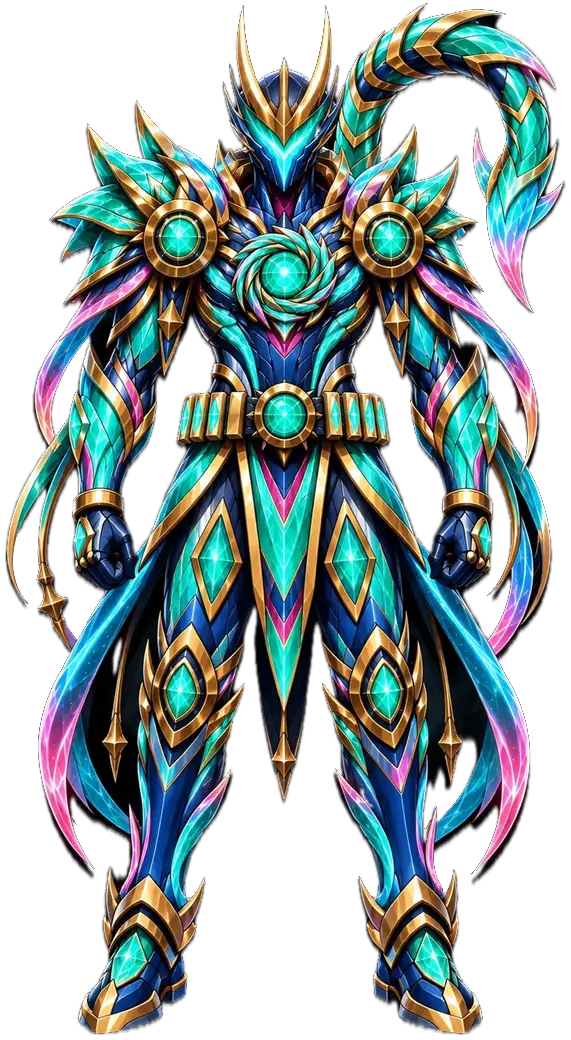
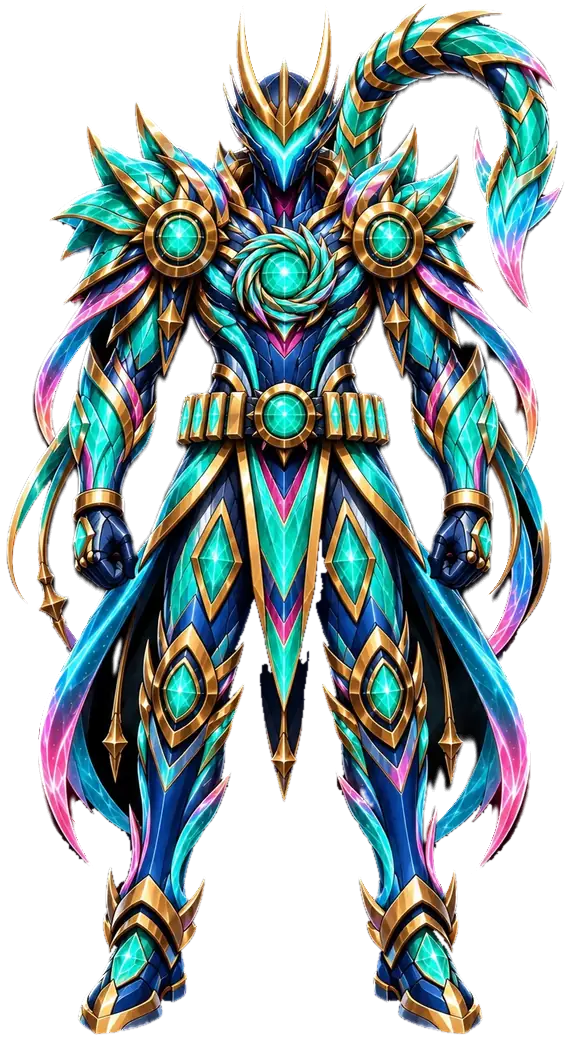
Rexonance: clean cut-outs through the suit-up and the MAX/ULTRA figures (owner)
- The call's nanite motes are the art itself in nanite light (the light
  split's third layer), so a plate's edge is the artwork's edge from the
  first mote; a landing tile locks whole, on the pixel grid, with its
  light fading into it, and locked tiles are one clipped draw per plate:
  no gaps or seams between tiles, so a forming plate no longer looked
  chopped into squares.
- The MAX and ULTRA figures: the black ground is flood-filled away with
  its dark rim and the edge is unpremultiplied, so no grey halo or black
  slivers come along where their shapes fall short of HIGH's; only
  coloured glow beyond the silhouette adds alpha.

diff --git a/src/lib/rexonance-unlit.js b/src/lib/rexonance-unlit.js
@@ -10,8 +10,8 @@
  * RESONANCE preparation uses createSplitLightsJob to run the same pass in
  * short row slices. Null
  * where the pixels cannot be read (the suit then lights as it always did). */
-export function splitLights(source, sx, sy, w, h, document = globalThis.document) {
-  const job = createSplitLightsJob(source, sx, sy, w, h, document);
+export function splitLights(source, sx, sy, w, h, document = globalThis.document, options) {
+  const job = createSplitLightsJob(source, sx, sy, w, h, document, options);
   if (!job) return null;
   job.step(Infinity);
   return job.commit();
@@ -22,23 +22,40 @@ export function splitLights(source, sx, sy, w, h, document = globalThis.document
  * escape this job. A short deadline still advances one row, so a busy host
  * cannot starve preparation forever. Native readback/put operations and one
  * row are indivisible: the deadline bounds cooperative work, not those
- * native operations' wall time. */
-export function createSplitLightsJob(source, sx, sy, w, h, document = globalThis.document) {
+ * native operations' wall time.
+ *
+ * `options.motes` (the call's nanite engine; owner, 2026-10-15): a third
+ * canvas, `motes`, from the same pass — the art in nanite light (each pixel
+ * pushed to pink or ice, the darker the more) with the art's own alpha, so a
+ * tile streaming in as a mote keeps the artwork's edge. */
+export function createSplitLightsJob(
+  source,
+  sx,
+  sy,
+  w,
+  h,
+  document = globalThis.document,
+  options = {},
+) {
   let unlit;
   let lights;
+  let motes;
   let scratch;
   try {
     const make = () => Object.assign(document.createElement("canvas"), { width: w, height: h });
     scratch = make();
     unlit = make();
     lights = make();
+    if (options.motes) motes = make();
     const uc = scratch.getContext("2d", { willReadFrequently: true });
     if (!uc) throw new Error("unavailable light separation context");
     uc.drawImage(source, sx, sy, w, h, 0, 0, w, h);
     let art = uc.getImageData(0, 0, w, h);
     let glow = uc.createImageData(w, h);
+    let heat = motes ? uc.createImageData(w, h) : null;
     let a = art.data;
     let g = glow.data;
+    let m = heat ? heat.data : null;
     // Native ImageData has width. Lightweight callers/tests may only expose
     // its bytes, so use the requested region rather than creating a NaN
     // cursor that could strand the synchronous compatibility pass forever.
@@ -49,8 +66,9 @@ export function createSplitLightsJob(source, sx, sy, w, h, document = globalThis
     let cancelled = false;
     let result = null;
     const release = () => {
-      art = glow = a = g = null;
+      art = glow = heat = a = g = m = null;
       unlit.width = unlit.height = lights.width = lights.height = 0;
+      if (motes) motes.width = motes.height = 0;
       scratch.width = scratch.height = 0;
     };
     return {
@@ -59,7 +77,7 @@ export function createSplitLightsJob(source, sx, sy, w, h, document = globalThis
         try {
           do {
             const end = Math.min(at + rowBytes, a.length);
-            separate(a, g, at, end);
+            separate(a, g, m, at, end);
             at = end;
             if (at >= a.length) return true;
           } while (
@@ -86,9 +104,16 @@ export function createSplitLightsJob(source, sx, sy, w, h, document = globalThis
           uc.clearRect(0, 0, w, h);
           uc.putImageData(glow, 0, 0);
           lc.drawImage(scratch, 0, 0);
+          if (motes) {
+            const mc = motes.getContext("2d");
+            if (!mc) throw new Error("unavailable mote layer context");
+            uc.clearRect(0, 0, w, h);
+            uc.putImageData(heat, 0, 0);
+            mc.drawImage(scratch, 0, 0);
+          }
           scratch.width = scratch.height = 0;
-          result = { unlit, lights };
-          art = glow = a = g = null;
+          result = motes ? { unlit, lights, motes } : { unlit, lights };
+          art = glow = heat = a = g = m = null;
           return result;
         } catch {
           cancelled = true;
@@ -106,14 +131,22 @@ export function createSplitLightsJob(source, sx, sy, w, h, document = globalThis
     // Releasing owned canvases never closes a borrowed image or bitmap.
     if (unlit) unlit.width = unlit.height = 0;
     if (lights) lights.width = lights.height = 0;
+    if (motes) motes.width = motes.height = 0;
     if (scratch) scratch.width = scratch.height = 0;
     return null;
   }
 }
 
+// The motes' nanite light: ice for most of the art (the black plates and
+// the gold trims too — the gold forms later, from its own nanites), pink
+// for its magenta and pink pixels.
+const ICE = [140, 239, 255];
+const PINK = [255, 143, 216];
+
 // Keep the original per-pixel arithmetic and rounding order: splitting rows
-// only changes when pixels are visited, never their resulting bytes.
-function separate(a, g, from, to) {
+// only changes when pixels are visited, never their resulting bytes. `m`
+// (the mote bytes) is filled from the untouched art, or null.
+function separate(a, g, m, from, to) {
   for (let i = from; i < to; i += 4) {
     if (!a[i + 3]) continue;
     const r = a[i];
@@ -122,13 +155,27 @@ function separate(a, g, from, to) {
     const max = Math.max(r, gr, b);
     const min = Math.min(r, gr, b);
     const chroma = max - min;
+    let hue = -1;
+    if (chroma) {
+      if (max === r) hue = ((gr - b) / chroma + 6) % 6;
+      else if (max === gr) hue = (b - r) / chroma + 2;
+      else hue = (r - gr) / chroma + 4;
+      hue *= 60;
+    }
+    if (m) {
+      // The pixel in nanite light, the darker the more (a black plate's
+      // mote is a cold spark, a crystal's keeps its own light), a touch
+      // brighter than the art; the art's alpha.
+      const luma = 0.2126 * r + 0.7152 * gr + 0.0722 * b;
+      const tint = chroma >= 0.25 * max && (hue >= 285 || hue < 12) ? PINK : ICE;
+      const lift = 0.56 + 0.26 * (1 - luma / 255);
+      m[i] = Math.min(255, Math.round((r + (tint[0] - r) * lift) * 1.12));
+      m[i + 1] = Math.min(255, Math.round((gr + (tint[1] - gr) * lift) * 1.12));
+      m[i + 2] = Math.min(255, Math.round((b + (tint[2] - b) * lift) * 1.12));
+      m[i + 3] = a[i + 3];
+    }
     if (max < 70 || chroma < 0.3 * max) continue;
     // Hue: gold and bronze (red-orange to yellow) keep their colour.
-    let hue;
-    if (max === r) hue = ((gr - b) / chroma + 6) % 6;
-    else if (max === gr) hue = (b - r) / chroma + 2;
-    else hue = (r - gr) / chroma + 4;
-    hue *= 60;
     if (hue >= 12 && hue < 70) continue;
     // A lit pixel: cyan, blue, violet or pink. Its share of the light.
     const k = Math.min(1, (chroma / max - 0.3) / 0.25) * Math.min(1, (max - 70) / 60);

diff --git a/src/components/rexonance-saga/rexonance-suit-nanites.tsx b/src/components/rexonance-saga/rexonance-suit-nanites.tsx
@@ -10,6 +10,7 @@ import {
   T,
   cells,
   forming,
+  moteSheet,
   planEnd,
   planSurges,
   plateLights,
@@ -120,13 +121,14 @@ export function SuitNanites({ onReady }: { onReady: () => void }) {
         const settled = make();
         const flight = make();
         const source = work.canvas;
-        if (!atlasWork || !source || !settled || !flight) {
+        const all = plates();
+        const sheet = moteSheet(atlas);
+        if (!atlasWork || !source || !sheet || !settled || !flight) {
           box.replaceChildren();
           return;
         }
         work.dirty = true;
         const s = width / FIG.width;
-        const all = plates();
         const surges = planSurges();
         const end = planEnd();
         const gold = cells();
@@ -214,40 +216,55 @@ export function SuitNanites({ onReady }: { onReady: () => void }) {
             if (t < plate.spawn || (done[p] && t >= plate.last)) continue;
             const { piece } = plate;
             if (t < plate.fit) {
+              // The tiles that have locked: one clip of their cells and one
+              // draw of the plate. Drawn one by one at the canvas's scale,
+              // their resampled edges left a dark lattice between them, so a
+              // forming plate looked chopped into squares (owner, 2026-10-15).
+              let locked = false;
+              flight.save();
+              flight.beginPath();
+              for (const tile of plate.tiles) {
+                if (t - tile.land < 0) continue;
+                const x0 = Math.round(tile.dx * s);
+                const y0 = Math.round(tile.dy * s);
+                flight.rect(
+                  x0,
+                  y0,
+                  Math.round((tile.dx + tile.tw) * s) - x0,
+                  Math.round((tile.dy + tile.th) * s) - y0,
+                );
+                locked = true;
+              }
+              if (locked) {
+                flight.clip();
+                flight.globalAlpha = 1;
+                flight.drawImage(
+                  source,
+                  piece.ax,
+                  piece.ay,
+                  piece.w,
+                  piece.h,
+                  piece.x * s,
+                  piece.y * s,
+                  piece.w * s,
+                  piece.h * s,
+                );
+              }
+              flight.restore();
               for (const tile of plate.tiles) {
                 const u = (t - tile.land + FLIGHT) / FLIGHT;
-                if (u <= 0) continue;
-                if (u >= 1) {
-                  flight.globalAlpha = 1;
-                  flight.drawImage(
-                    source,
-                    tile.sx,
-                    tile.sy,
-                    tile.tw,
-                    tile.th,
-                    tile.dx * s,
-                    tile.dy * s,
-                    tile.tw * s,
-                    tile.th * s,
-                  );
-                  continue;
-                }
+                if (u <= 0 || u >= 1) continue;
                 const e = 1 - (1 - u) ** 3;
                 const x = (tile.dx + tile.ox * (1 - e)) * s;
                 const y = (tile.dy + tile.oy * (1 - e)) * s;
                 if (u < 0.62) {
-                  // A nanite mote, streaming in.
+                  // A nanite mote, streaming in: its own tile of the art in
+                  // its tone (the mote sheet), so even now the suit's edge is
+                  // the artwork's edge (owner, 2026-10-15).
                   const size = T * s * (0.3 + 0.4 * (u / 0.62));
                   flight.globalAlpha = Math.min(1, u * 5) * 0.85;
-                  flight.fillStyle = tile.tone;
-                  flight.fillRect(x + (T * s - size) / 2, y + (T * s - size) / 2, size, size);
-                } else {
-                  // It turns into its piece of the plate (gold unformed) and locks.
-                  const v = (u - 0.62) / 0.38;
-                  const size = T * s * (0.72 + 0.28 * v);
-                  flight.globalAlpha = 0.55 + 0.45 * v;
                   flight.drawImage(
-                    source,
+                    sheet,
                     tile.sx,
                     tile.sy,
                     tile.tw,
@@ -257,6 +274,22 @@ export function SuitNanites({ onReady }: { onReady: () => void }) {
                     size * (tile.tw / T),
                     size * (tile.th / T),
                   );
+                } else {
+                  // It turns into its piece of the plate (gold unformed) and
+                  // locks: whole and on the pixel grid, fading up, its mote's
+                  // light fading into it. (It used to grow into place from
+                  // 72%: the gaps that opened between neighbours, and the
+                  // seams of tiles drawn off the pixel grid, read as a plate
+                  // chopped into squares — owner, 2026-10-15.)
+                  const v = (u - 0.62) / 0.38;
+                  const x0 = Math.round(x);
+                  const y0 = Math.round(y);
+                  const w = Math.round(x + tile.tw * s) - x0;
+                  const h = Math.round(y + tile.th * s) - y0;
+                  flight.globalAlpha = 0.55 + 0.45 * v;
+                  flight.drawImage(source, tile.sx, tile.sy, tile.tw, tile.th, x0, y0, w, h);
+                  flight.globalAlpha = 0.6 * (1 - v);
+                  flight.drawImage(sheet, tile.sx, tile.sy, tile.tw, tile.th, x0, y0, w, h);
                 }
               }
               continue;

diff --git a/src/components/rexonance-saga/rexonance-suit-plan.ts b/src/components/rexonance-saga/rexonance-suit-plan.ts
@@ -351,10 +351,17 @@ export const isRexonanceSuitPlanReady = () =>
 let LIGHTS: {
   unlit: HTMLCanvasElement;
   lights: HTMLCanvasElement;
+  motes?: HTMLCanvasElement;
   figure: HTMLCanvasElement;
 } | null = null;
 export const plateLights = () => LIGHTS;
-function layOutLights(split: { unlit: HTMLCanvasElement; lights: HTMLCanvasElement }) {
+// The split's third layer, the motes (rx, 2026-10-15), is the call's alone.
+const SPLIT_OPTIONS = { motes: true };
+function layOutLights(split: {
+  unlit: HTMLCanvasElement;
+  lights: HTMLCanvasElement;
+  motes?: HTMLCanvasElement;
+}) {
   const figure = Object.assign(globalThis.document.createElement("canvas"), {
     width: FIG.width,
     height: FIG.height,
@@ -378,7 +385,7 @@ function layOutLights(split: { unlit: HTMLCanvasElement; lights: HTMLCanvasEleme
 export function prepareLights(art: CanvasImageSource) {
   if (!LIGHTS && !work.drawing) {
     const { width, height } = REXONANCE_SUIT_GOLD_ATLAS;
-    const split = splitLights(art, 0, 0, width, height);
+    const split = splitLights(art, 0, 0, width, height, globalThis.document, SPLIT_OPTIONS);
     if (split) {
       LIGHTS = layOutLights(split);
       work.dirty = true;
@@ -402,6 +409,15 @@ export function forming(art: CanvasImageSource, gold: CanvasImageSource) {
   }
   return context;
 }
+
+// The tiles as nanite motes (owner, 2026-10-15: the cut-out looked rough
+// while the plates streamed in — a mote was a solid square of its tone, so
+// at the figure's edge the forming suit was stair-stepped). A mote is its
+// own tile of the art in nanite light (the light split's third layer: the
+// art pushed to ice, pink and white, with the art's own alpha), so the
+// suit's edge is the artwork's edge from the first mote, and inside the body
+// the tiles remain the nanite squares. Without the split, the art itself.
+export const moteSheet = (art: CanvasImageSource): CanvasImageSource => LIGHTS?.motes ?? art;
 
 let preparation: Promise<boolean> | null = null;
 let promotePreparation: (() => void) | null = null;
@@ -480,7 +496,15 @@ export function prepareRexonanceSuit(priority: "low" | "high" = "low") {
       }
       if (stage === "light-setup") {
         const { width, height } = REXONANCE_SUIT_GOLD_ATLAS;
-        lightJob = createSplitLightsJob(art, 0, 0, width, height);
+        lightJob = createSplitLightsJob(
+          art,
+          0,
+          0,
+          width,
+          height,
+          globalThis.document,
+          SPLIT_OPTIONS,
+        );
         lightSource = art;
         stage = lightJob ? "light-rows" : "atlas";
         schedule();

diff --git a/src/lib/rexonance-unlit.d.ts b/src/lib/rexonance-unlit.d.ts
@@ -1,4 +1,11 @@
-export type SplitLightsResult = { unlit: HTMLCanvasElement; lights: HTMLCanvasElement };
+export type SplitLightsResult = {
+  unlit: HTMLCanvasElement;
+  lights: HTMLCanvasElement;
+  /** With `options.motes`: the art in nanite light, the art's alpha (the call's motes). */
+  motes?: HTMLCanvasElement;
+};
+
+export type SplitLightsOptions = { motes?: boolean };
 
 export type SplitLightsJob = {
   /** Cooperatively advance rows; true is terminal (completed or cancelled). */
@@ -16,6 +23,7 @@ export function createSplitLightsJob(
   w: number,
   h: number,
   document?: Document,
+  options?: SplitLightsOptions,
 ): SplitLightsJob | null;
 
 export function splitLights(
@@ -25,4 +33,5 @@ export function splitLights(
   w: number,
   h: number,
   document?: Document,
+  options?: SplitLightsOptions,
 ): SplitLightsResult | null;
